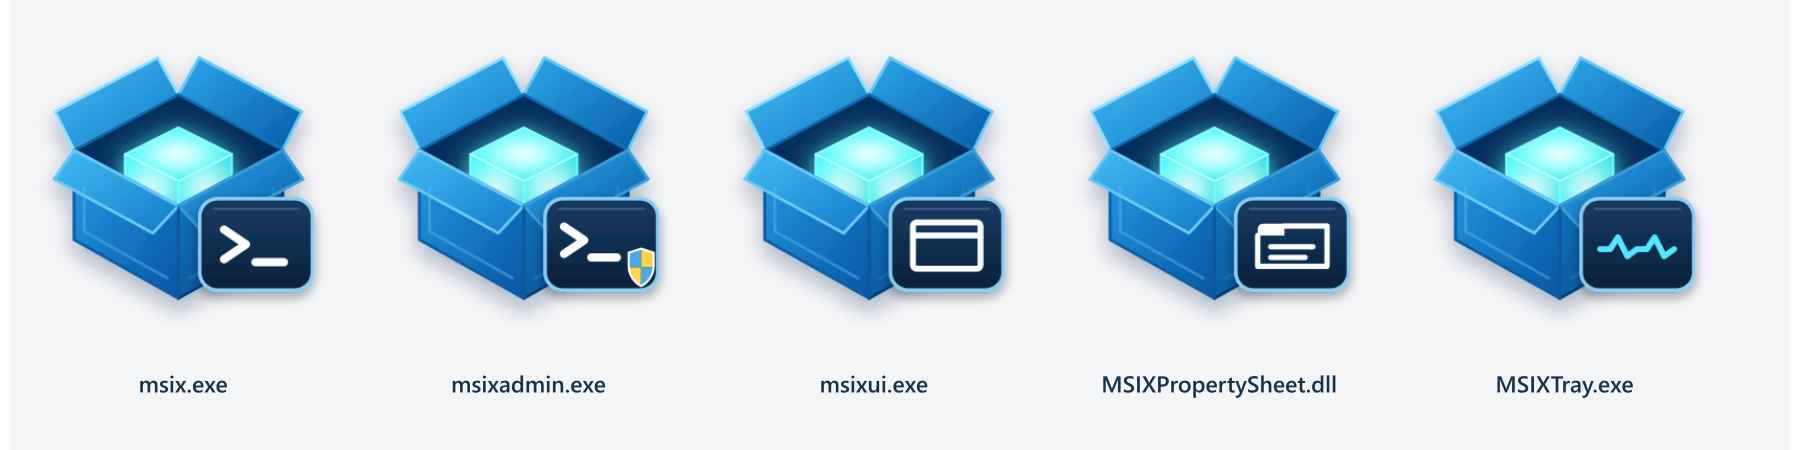
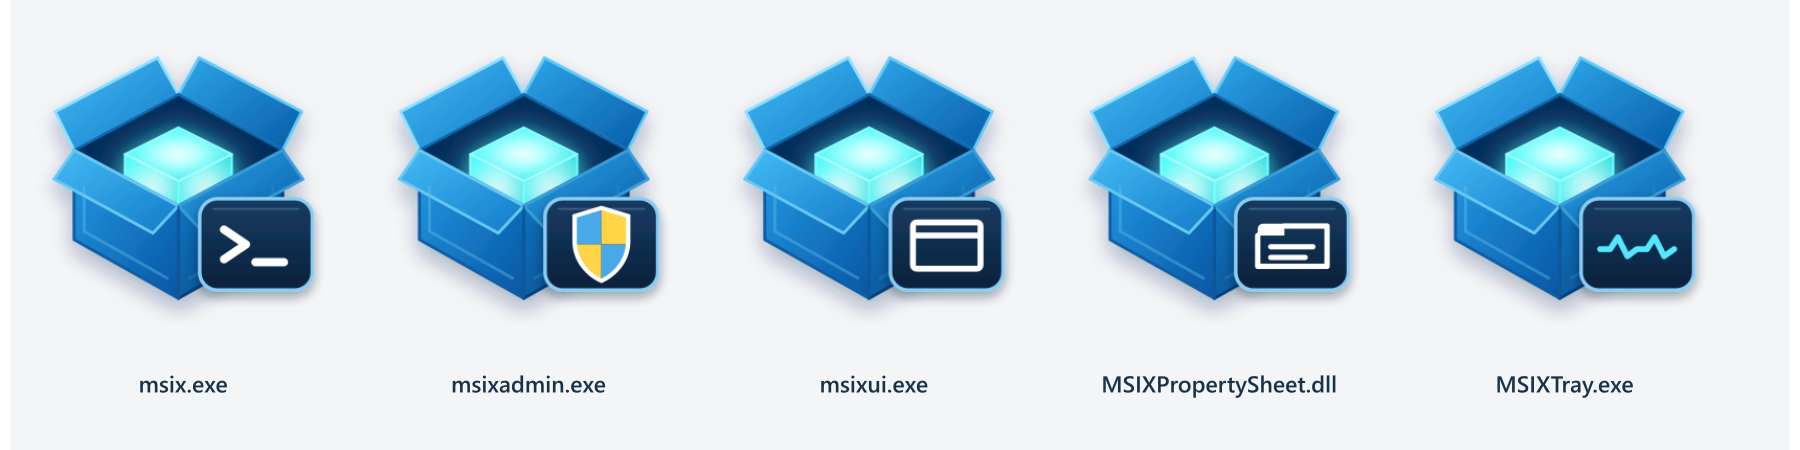
Latest graphics

Changed region(s): [[0.3111, 0.4667, 0.3733, 0.6533]]

diff --git a/images/graphic-design/.copilot/MSIXcli-Image-Generate-Step-1-Preview.md b/images/graphic-design/.copilot/MSIXcli-Image-Generate-Step-1-Preview.md
@@ -37,8 +37,8 @@ Do not hard-code cyan throughout the generator. All primary-color selection must
 
 In `PRIMARY` mode:
 
-- SVG and family-sheet filenames do not include `-<color>`.
-- Individual PNG filenames include both `-<color>` and `-<size>`.
+- No filename includes `-<color>`.
+- Individual PNG filenames include `-<size>` only.
 
 In `ALL` mode:
 
@@ -83,7 +83,7 @@ The canonical package contains:
 - Four open package flaps.
 - One dark interior opening.
 - One centered inner cube.
-- A concentrated glow centered inside the top face of the inner cube.
+- Enlarged clipped glow fields visible through the top, left, and right cube faces.
 - Clear dark-blue interior space around every side of the inner cube.
 
 There is no second inner box or nested package.
@@ -126,7 +126,7 @@ Only these inner-cube properties may change between color variants:
 - Left-face gradient.
 - Right-face gradient.
 - Cube edge highlights.
-- Centered glow color.
+- Top-, left-, and right-face glow color.
 - Cube glow shadow.
 
 Do not recolor the outer package, interior opening, role badge, or badge glyph.
@@ -134,8 +134,12 @@ Do not recolor the outer package, interior opening, role badge, or badge glyph.
 Each color variant must retain:
 
 - Darker cube faces.
-- A brighter glow centered inside the cube's top face.
-- The same glow size and position.
+- Bright glow visible through all three visible cube faces.
+- A top-face glow ellipse with `rx=162` and `ry=85.5`.
+- Left- and right-face glow ellipses with `rx=112.5` and `ry=118.5`.
+- Face clipping that prevents each glow from extending outside its cube face.
+- Cube-glow shadow blur with `stdDeviation=22.5`.
+- The same three-face glow size, position, clipping, opacity, and blur.
 - The same cube geometry and visibility.
 
 ## Icon Family
@@ -159,9 +163,12 @@ Within each color family, the package and inner cube must be identical. Only the
 
 #### msixadmin
 
-- Same terminal badge as `msix`.
-- Small blue-and-yellow Windows UAC shield.
-- Shield remains entirely inside the badge.
+- Same badge background, border, dimensions, lighting, and shadow as `msix`.
+- Do not include the `>_` terminal glyph.
+- Blue-and-yellow Windows UAC shield with a nominal height equal to 80% of the badge height.
+- Make the shield 10% wider than its proportional width at that height.
+- Center the shield horizontally and vertically inside the badge.
+- The shield is the only glyph inside the badge.
 
 #### msixui
 
@@ -247,17 +254,17 @@ In `PRIMARY` mode, use:
 
 For each required `PRIMARY` PNG size, use:
 
-- `msix-<color>-<size>.png`
-- `msixadmin-<color>-<size>.png`
-- `msixui-<color>-<size>.png`
-- `MSIXPropertySheet-<color>-<size>.png`
-- `MSIXTray-<color>-<size>.png`
+- `msix-<size>.png`
+- `msixadmin-<size>.png`
+- `msixui-<size>.png`
+- `MSIXPropertySheet-<size>.png`
+- `MSIXTray-<size>.png`
 
 Examples:
 
-- `msix-cyan-32x32.png`
-- `msix-cyan-1024x1024.png`
-- `MSIXTray-cyan-256x256.png`
+- `msix-32x32.png`
+- `msix-1024x1024.png`
+- `MSIXTray-256x256.png`
 
 In `ALL` mode, generate one SVG for every icon and color.
 
@@ -337,7 +344,7 @@ After generation, verify:
 - `ALL` has an explicitly supplied output directory before generation begins.
 - `ALL` has an explicitly supplied size selection before generation begins.
 - `reference` resolves to only `1024x1024`.
-- `PRIMARY` individual PNG filenames contain the primary color and exact dimensions.
+- `PRIMARY` individual PNG filenames contain exact dimensions and no color suffix.
 - `ALL` individual PNG filenames contain their normalized color and exact dimensions.
 - SVG and family-sheet filenames follow their mode-specific naming rules.
 - The selected color set matches the configured generation mode.
@@ -351,7 +358,8 @@ After generation, verify:
 - Every family sheet is 1800x450.
 - The outer package and badge artwork are unchanged across all variants.
 - The inner cube remains centered with dark-blue space visible around every side.
-- The glow remains centered inside the cube.
+- The enlarged glow remains visible through the top, left, and right cube faces.
+- All three glow fields retain their approved dimensions, clipping, opacity, and blur.
 - The package walls completely occlude the hidden portion of the cube.
 - No cube pixels appear through the solid sides or lower package corner.
 - Only the inner cube and its glow change color.

diff --git a/images/graphic-design/.copilot/MSIXcli-Image-Generate-Step-3-Generate-production-icons.md b/images/graphic-design/.copilot/MSIXcli-Image-Generate-Step-3-Generate-production-icons.md
@@ -32,8 +32,8 @@ The selected color set must match the Step 1 run being promoted to production. D
 
 In `PRIMARY` mode:
 
-- SVG filenames do not include `-<color>`.
-- Individual PNG filenames include both `-<color>` and `-<size>`.
+- No filename includes `-<color>`.
+- Individual PNG filenames include `-<size>` only.
 
 In `ALL` mode:
 
@@ -99,7 +99,7 @@ Do not:
 - Redraw, reinterpret, or approximate any artwork.
 - Recolor any source.
 - Change the outer package, flaps, interior opening, or inner cube.
-- Change the centered glow.
+- Change any top-, left-, or right-face glow geometry, clipping, opacity, position, or blur.
 - Change package or cube geometry, perspective, scale, or placement.
 - Change badge dimensions, placement, background, border, lighting, or shadow.
 - Change any badge glyph.
@@ -157,11 +157,11 @@ In `PRIMARY` mode, preserve these Step 1 filenames exactly:
 
 For each required `PRIMARY` PNG size, preserve:
 
-- `msix-<color>-<size>.png`
-- `msixadmin-<color>-<size>.png`
-- `msixui-<color>-<size>.png`
-- `MSIXPropertySheet-<color>-<size>.png`
-- `MSIXTray-<color>-<size>.png`
+- `msix-<size>.png`
+- `msixadmin-<size>.png`
+- `msixui-<size>.png`
+- `MSIXPropertySheet-<size>.png`
+- `MSIXTray-<size>.png`
 
 In `ALL` mode, preserve these Step 1 filenames exactly:
 
@@ -181,8 +181,8 @@ For every explicitly selected `ALL` size, preserve:
 
 Examples:
 
-- `msix-cyan-32x32.png`
-- `msix-cyan-1024x1024.png`
+- `msix-32x32.png`
+- `msix-1024x1024.png`
 - `msixadmin-gold-64x64.png`
 - `MSIXTray-fuchsia-256x256.png`
 
@@ -242,7 +242,7 @@ After export, verify:
 - `ALL` has an explicitly supplied output directory before generation begins.
 - `ALL` has an explicitly supplied size selection before generation begins.
 - `reference` resolves to only `1024x1024`.
-- `PRIMARY` individual PNG filenames contain the primary color and exact dimensions.
+- `PRIMARY` individual PNG filenames contain exact dimensions and no color suffix.
 - `ALL` individual PNG filenames contain their normalized color and exact dimensions.
 - SVG filenames follow their mode-specific naming rules.
 - `PRIMARY` contains only the configured primary color.
@@ -255,7 +255,8 @@ After export, verify:
 - All four corners of every PNG are fully transparent.
 - Every SVG and its corresponding PNG depict identical artwork.
 - The outer package and badge artwork remain unchanged across all colors.
-- Only the inner cube and its centered glow vary by color.
+- Only the inner cube and its approved three-face glow vary by color.
+- The top, left, and right glow fields match the Step 1 geometry, clipping, opacity, and blur exactly.
 - The inner cube remains centered with dark-blue interior space around every side.
 - The package walls completely occlude the hidden portion of the cube.
 - No cube pixels appear through any solid package wall or lower corner.

diff --git a/images/graphic-design/.copilot/MSIXcli-Image-Generate-Step-4-Generate-project-logo.md b/images/graphic-design/.copilot/MSIXcli-Image-Generate-Step-4-Generate-project-logo.md
@@ -73,7 +73,7 @@ The resulting logo contains:
 - Four open package flaps.
 - One dark interior opening.
 - One centered colored inner cube.
-- One concentrated glow centered inside the cube's top face.
+- Enlarged clipped glow fields visible through the top, left, and right cube faces.
 - Clear dark-blue interior space around every side of the cube.
 - No badge, glyph, text, or background.
 
@@ -84,7 +84,7 @@ Do not:
 - Redraw, reinterpret, or approximate the package.
 - Recolor any source.
 - Change the outer package, flaps, interior opening, or inner cube.
-- Change the centered glow.
+- Change any top-, left-, or right-face glow geometry, clipping, opacity, position, or blur.
 - Change package or cube geometry, perspective, scale, or placement.
 - Change gradients, edge highlights, lighting, filters, clipping, shadows, or layer order.
 - Scale, reposition, crop, or rotate the package.
@@ -190,7 +190,8 @@ After export, verify:
 - Every SVG and corresponding PNG depict identical artwork.
 - No badge, badge shadow, badge glyph, text, or background remains.
 - The outer package artwork is identical across all colors.
-- Only the inner cube and its centered glow differ by color.
+- Only the inner cube and its approved three-face glow differ by color.
+- The top, left, and right glow fields exactly match their corresponding Step 3 source.
 - Each logo exactly matches its corresponding Step 3 `msix.svg` or `msix-<color>.svg` package artwork, according to generation mode.
 - The inner cube remains centered with dark-blue interior space around every side.
 - The package walls completely occlude the hidden portion of the cube.

diff --git a/images/graphic-design/.copilot/MSIXcli-Image-Generate-Step-2-Approve.md b/images/graphic-design/.copilot/MSIXcli-Image-Generate-Step-2-Approve.md
@@ -18,7 +18,9 @@ Check:
 - Same package everywhere
 - Same badge position everywhere
 - Same badge size everywhere
+- Glow is visible through the top, left, and right faces of every inner cube
+- Three-face glow size, clipping, opacity, and blur are identical everywhere
 - msixui.exe has one window rectangle
 - MSIXTray uses pulse waveform only
-- msixadmin shield is small
+- msixadmin badge contains only a centered shield that is 80% of the badge height and 10% wider than proportional
 - PropertySheet is a badge, not a document

diff --git a/images/graphic-design/.copilot/MSIXcli-Image-Generation-Specification.md b/images/graphic-design/.copilot/MSIXcli-Image-Generation-Specification.md
@@ -58,7 +58,8 @@ PRIMARY_COLOR = cyan
 - `PRIMARY` generates only `PRIMARY_COLOR`.
 - `ALL` generates all approved palette colors.
 - `PRIMARY` is the default mode.
-- `PRIMARY` filenames do not include a color suffix unless a numbered step explicitly defines a size-qualified filename.
+- `PRIMARY` filenames never include `-<color>`.
+- Sized `PRIMARY` filenames use `-<size>` only.
 - `ALL` filenames include `-<color>` before the extension.
 - `PRIMARY_COLOR` must exist in the approved palette.
 

diff --git a/images/graphic-design/.copilot/MSIXcli-Image-Generate-Step-5-Generate-README-banner.md b/images/graphic-design/.copilot/MSIXcli-Image-Generate-Step-5-Generate-README-banner.md
@@ -78,7 +78,7 @@ Preserve exactly:
 - Outer package geometry and color.
 - Open-flap geometry.
 - Dark interior opening.
-- Inner-cube geometry, color, centered glow, and placement.
+- Inner-cube geometry, color, placement, and enlarged clipped glow through the top, left, and right faces.
 - Solid-wall occlusion.
 - Badge geometry, placement, lighting, and glyphs.
 - All gradients, filters, clipping, highlights, and shadows.
